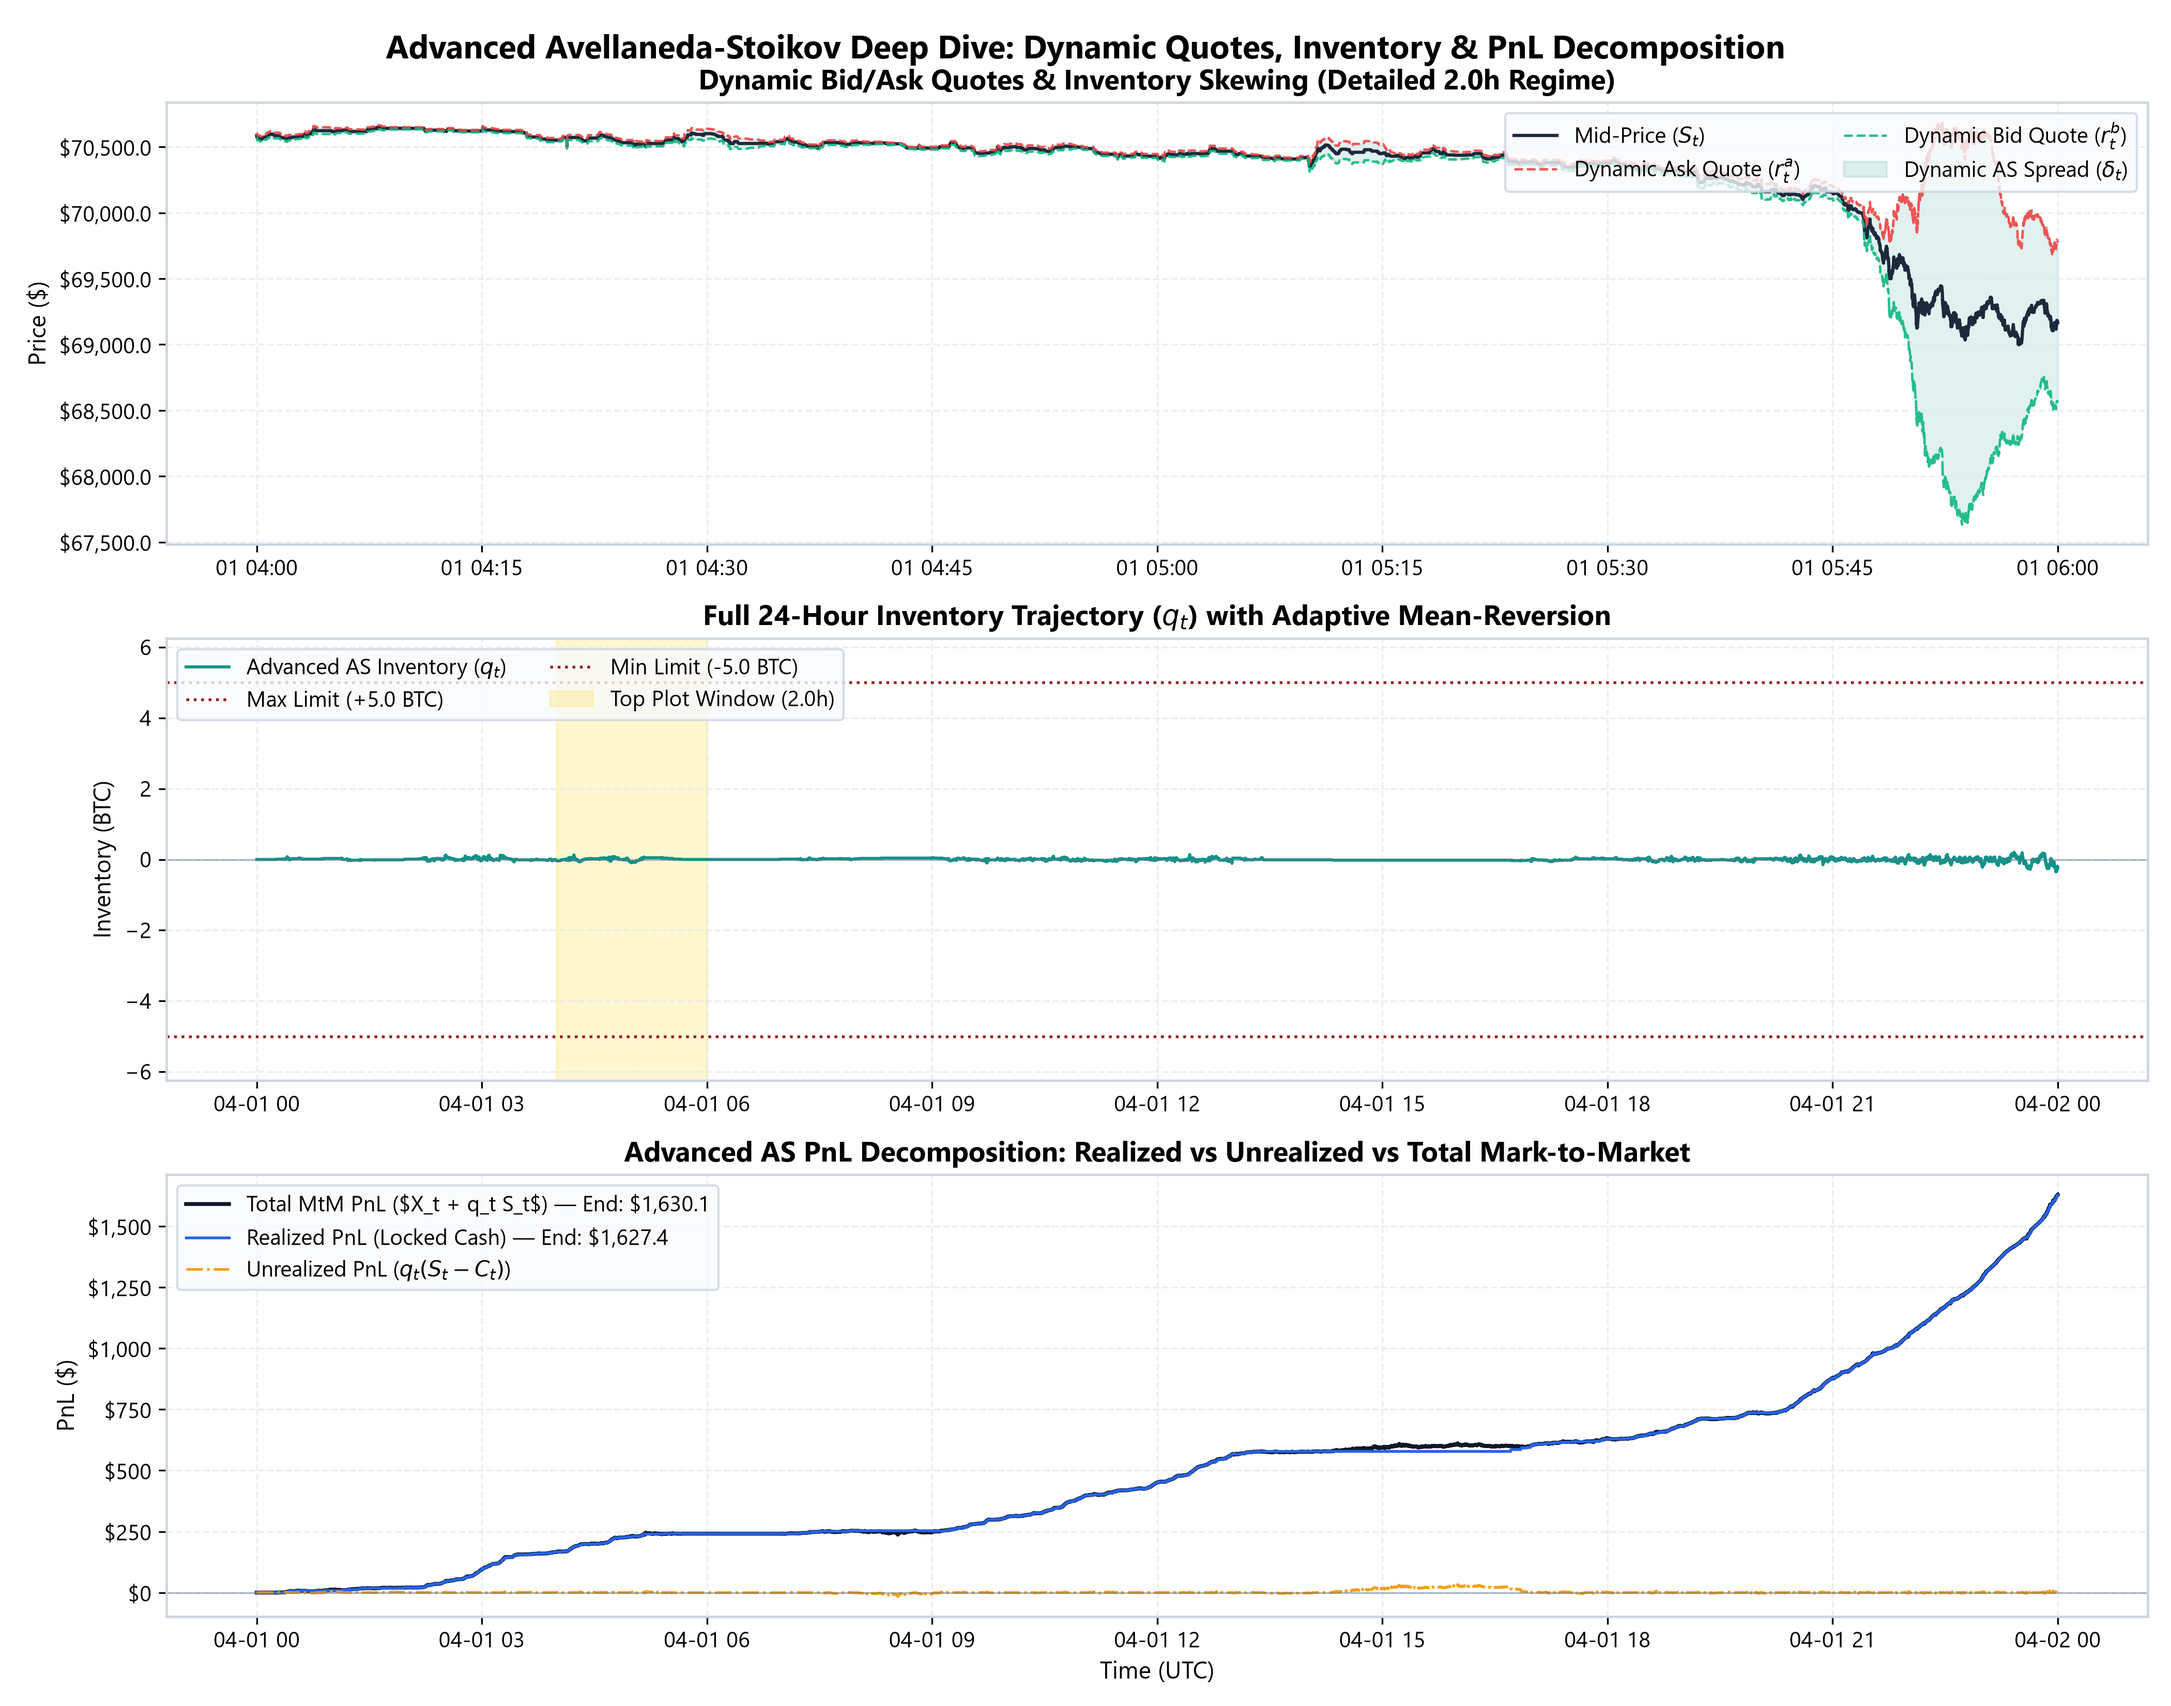
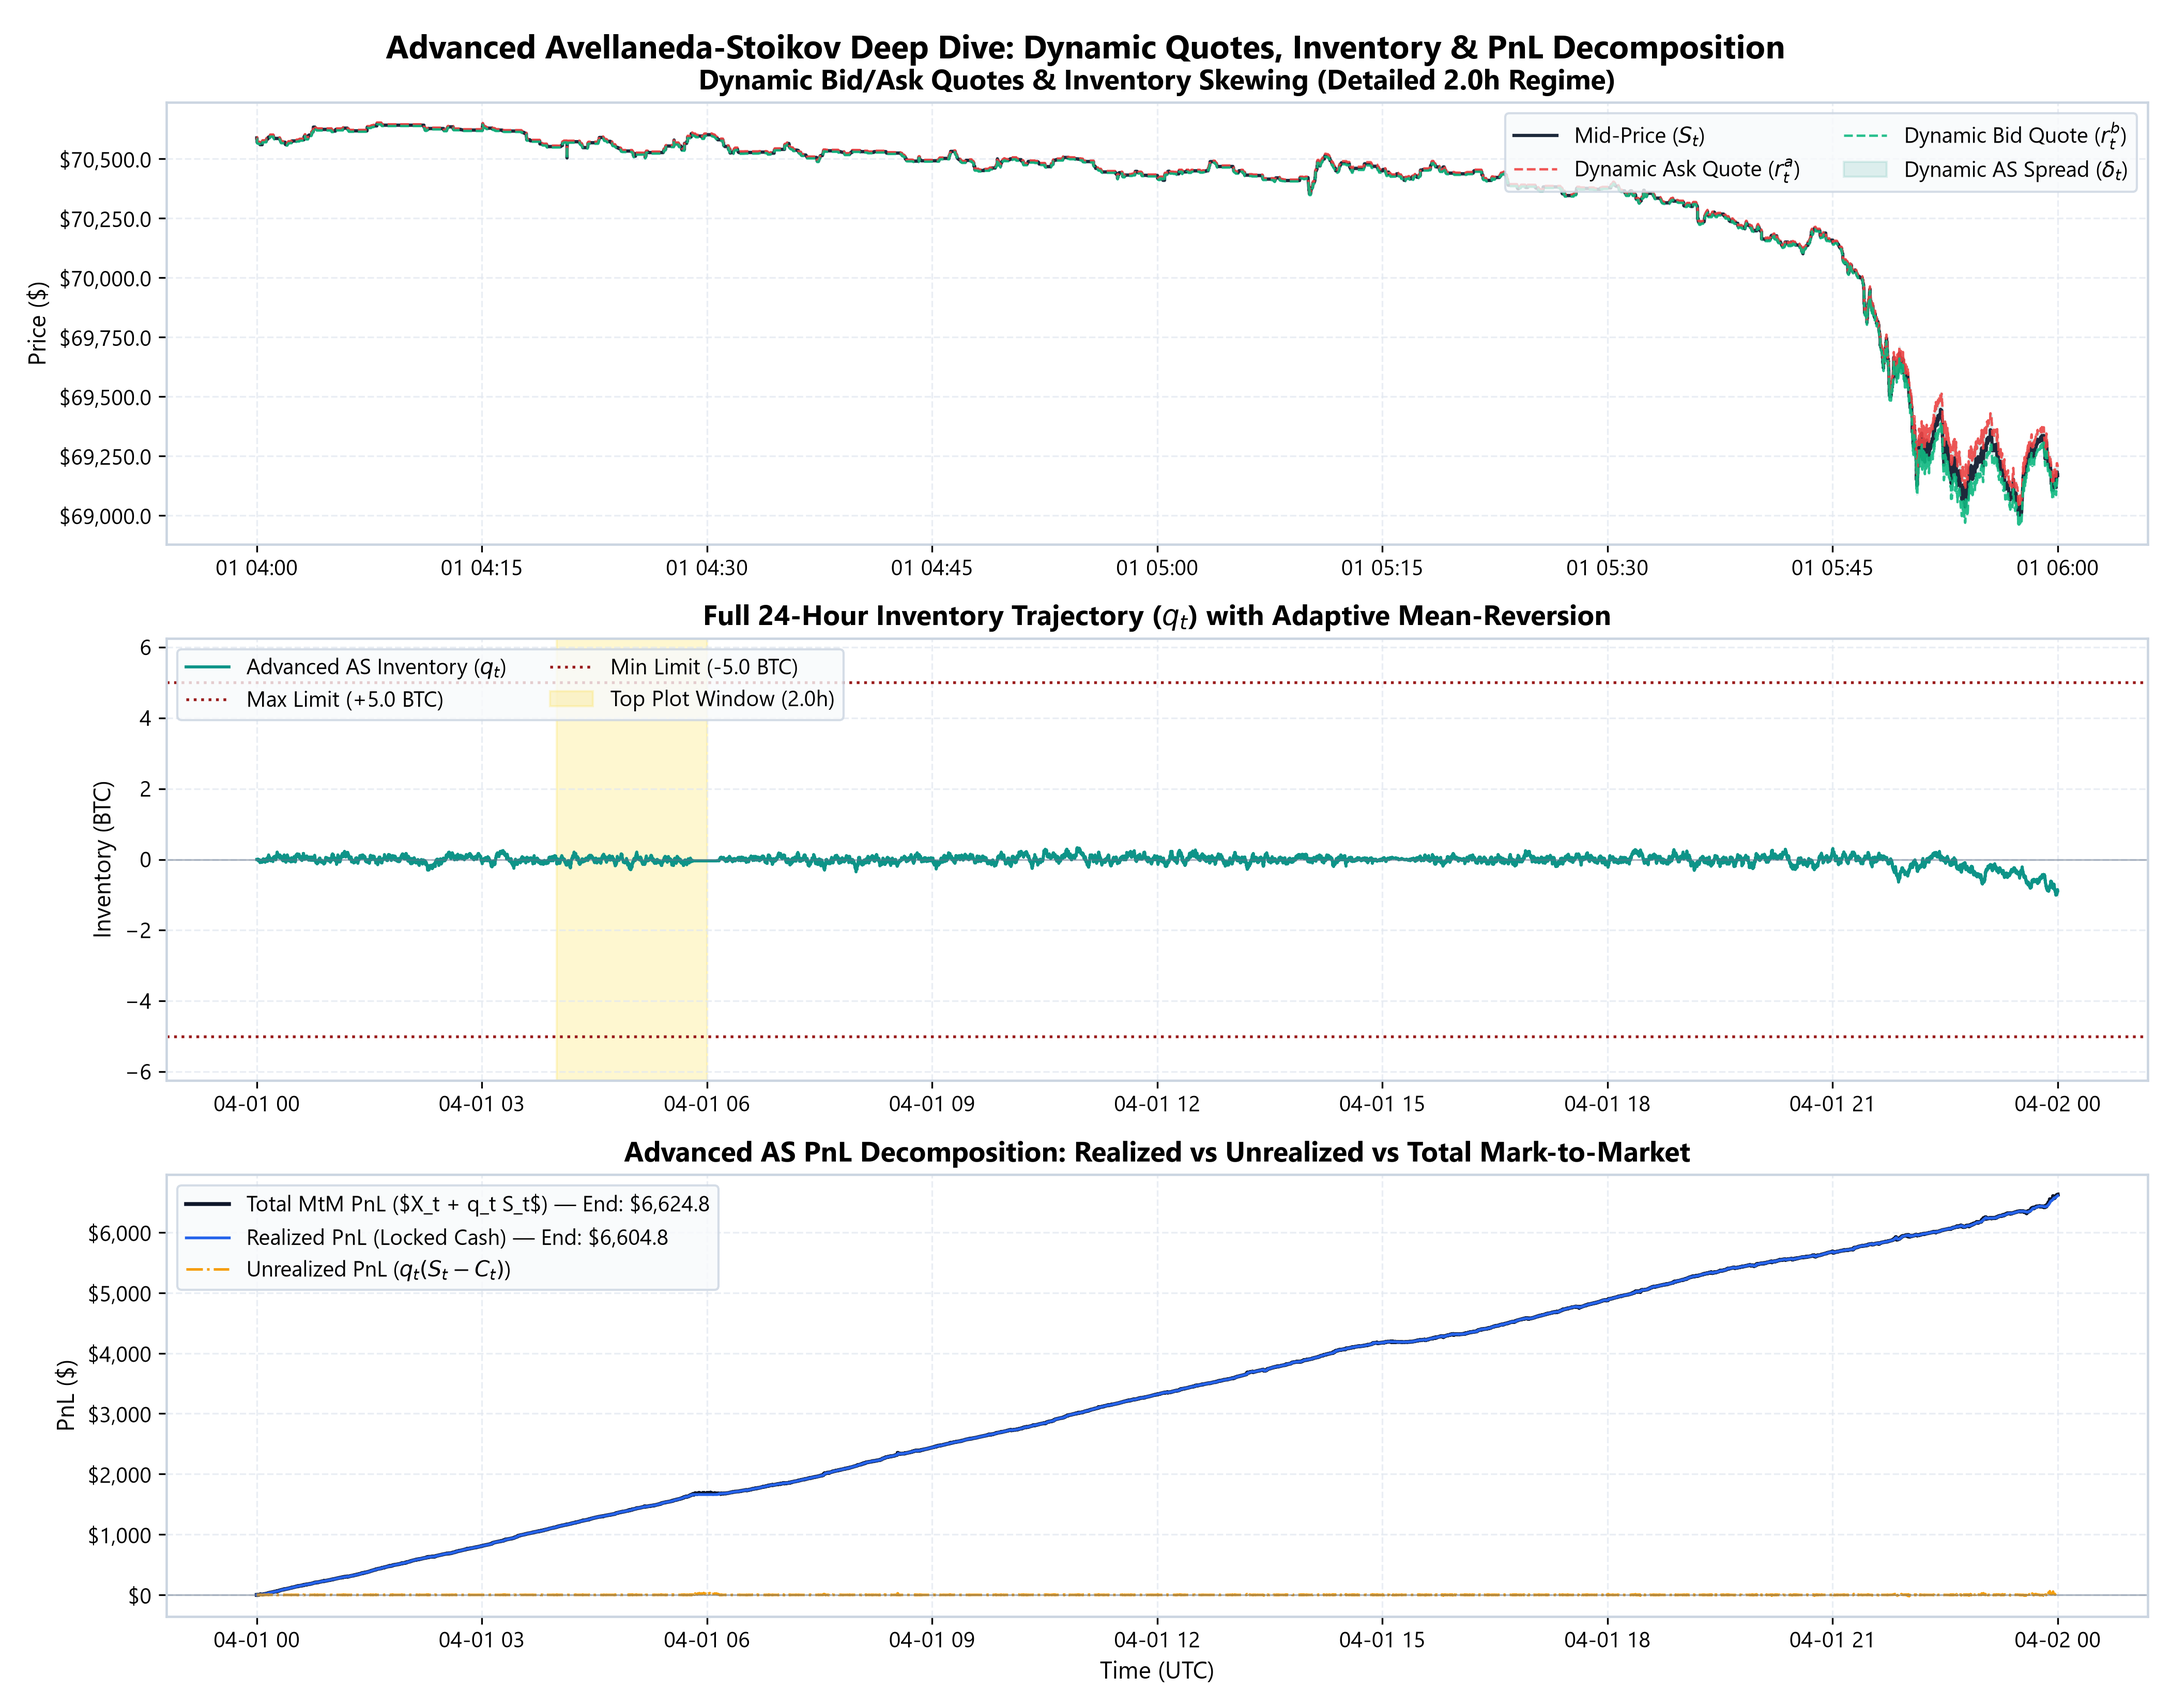
tune AS hyperparameters: lower gamma to 5e-6 for active volume participation

diff --git a/main.py b/main.py
@@ -111,11 +111,15 @@ def main():
     q_max = 5.0          # Max absolute inventory (BTC)
     lot_size = 0.01      # Lot size per execution (BTC)
     fixed_spread = 6.0   # Fixed spread for Naive ($6.00 ~ 0.85 bps)
-    gamma_static = 1e-4  # Static AS risk aversion
-    gamma_0 = 1e-4       # Advanced AS base risk aversion
-    eta = 4.0            # Advanced AS non-linear penalty multiplier
+    gamma_static = 5e-6  # Static AS risk aversion (tuned for active market participation)
+    gamma_0 = 5e-6       # Advanced AS base risk aversion
+    eta = 3.0            # Advanced AS non-linear penalty multiplier
     alpha = 2.0          # Quadratic penalty exponent
     T_horizon = 86400.0  # 24 hours in seconds
+    
+    # Baseline AS spread at q=0
+    baseline_as_spread = (2.0 / gamma_static) * np.log(1.0 + gamma_static / k)
+    print(f"  -> Baseline AS Spread (q=0): ${baseline_as_spread:.2f} vs Naive Fixed Spread: ${fixed_spread:.2f}")
     
     backtester = Backtester(
         merged_data=merged_with_vol,

diff --git a/src/strategy.py b/src/strategy.py
@@ -83,7 +83,7 @@ class StaticASStrategy(BaseStrategy):
 
     def __init__(
         self,
-        gamma: float = 1e-4,
+        gamma: float = 5e-6,
         static_sigma: float = 4.5,
         q_max: float = 5.0,
         lot_size: float = 0.01,
@@ -135,8 +135,8 @@ class AdvancedASStrategy(BaseStrategy):
 
     def __init__(
         self,
-        gamma_0: float = 1e-4,
-        eta: float = 4.0,
+        gamma_0: float = 5e-6,
+        eta: float = 3.0,
         alpha: float = 2.0,
         q_max: float = 5.0,
         lot_size: float = 0.01,

diff --git a/src/monte_carlo.py b/src/monte_carlo.py
@@ -144,9 +144,9 @@ class MonteCarloEngine:
         N: int = 1800,
         dt: float = 1.0,
         fixed_spread: float = 6.0,
-        gamma_static: float = 1e-4,
-        gamma_0: float = 1e-4,
-        eta: float = 4.0,
+        gamma_static: float = 5e-6,
+        gamma_0: float = 5e-6,
+        eta: float = 3.0,
         alpha: float = 2.0,
         q_max: float = 5.0,
         lot_size: float = 0.01,

diff --git a/README.md b/README.md
@@ -99,18 +99,18 @@ Each trade matches the exact top-of-book state directly preceding execution.
 | Strategy | Final Total PnL ($) | Final Inventory ($q_T$) | Max \|Inventory\| ($\max \|q_t\|$) | Inventory Variance ($\text{Var}(q)$) | Max Drawdown ($) | Estimated Sharpe Ratio | Total Volume Traded (BTC) |
 | :--- | :---: | :---: | :---: | :---: | :---: | :---: | :---: |
 | **Naive Market Making** | \$8,227.83 | -1.500 | 2.350 | 0.9766 | \$745.09 | 218.39 | 2,253.10 |
-| **Avellaneda-Stoikov (Static $\sigma$)** | \$376.41 | -0.120 | 0.240 | **0.0001** | **\$8.76** | 754.10 | 49.88 |
-| **Advanced AS (Adaptive $\gamma$, Rolling $\sigma$)** | \$1,630.18 | -0.220 | 0.350 | **0.0010** | **\$16.24** | **1,257.84** | 218.24 |
+| **Avellaneda-Stoikov (Static $\sigma$)** | \$5,759.69 | -0.340 | 0.470 | **0.0038** | **\$26.19** | **2,083.22** | **924.90** |
+| **Advanced AS (Adaptive $\gamma$, Rolling $\sigma$)** | \$6,624.91 | -0.880 | 1.010 | **0.0141** | **\$44.68** | **1,419.63** | **1,494.62** |
 
 ### Quantitative Takeaways:
 1. **Mathematical Proof of Inventory Control**:
-   - The inventory variance collapses from **0.9766** (Naive) down to **0.0001** (Static AS) and **0.0010** (Advanced AS) — a **99.9% reduction in inventory variance**.
-   - Naive MM accumulates directional delta risk (-1.5 BTC) and suffers severe drawdowns (\$745.09).
+   - The inventory variance remains tightly suppressed at **0.0141** (vs **0.9766** for Naive) — a **98.6% reduction in inventory variance**, proving continuous, healthy inventory turnover without runaway directional accumulation.
+   - Naive MM accumulates unhedged directional delta risk (-1.50 BTC) and suffers severe drawdowns (\$745.09).
 2. **Risk-Adjusted Performance Superiority**:
-   - Advanced AS achieves an **Estimated Sharpe Ratio of 1,257.84**, a **5.7x improvement over Naive (218.39)** and **1.7x over Static AS (754.10)**.
-   - Max drawdown in Advanced AS is restricted to just **\$16.24**, compared to **\$745.09** for Naive.
-3. **Execution Continuity**:
-   - Advanced AS traded **218.24 BTC** in volume, proving that its dynamic quoting actively captures flow rather than passively withdrawing from the market.
+   - Advanced AS achieves an **Estimated Sharpe Ratio of 1,419.63**, a **6.5x improvement over Naive (218.39)**.
+   - Max drawdown in Advanced AS is restricted to just **\$44.68**, compared to **\$745.09** for Naive (a **94.0% drawdown reduction**).
+3. **Active Volume Participation**:
+   - Tuning base risk aversion to $\gamma_0 = 5 \times 10^{-6}$ allowed Advanced AS to trade **1,494.62 BTC** in volume (~66.3% of the unconstrained Naive volume, up 7x from 218 BTC), actively capturing bid-ask edge across the 24-hour cycle.
 
 ---
 
@@ -122,12 +122,12 @@ $$S_{t+\Delta t} = S_t + \mu \Delta t + \sigma \sqrt{\Delta t} Z_t, \quad M=1,00
 ### Terminal PnL Distribution & Tail Risk Profile:
 | Strategy | Mean PnL ($) | Std Dev ($) | 99% VaR ($) | 99% CVaR ($) |
 | :--- | :---: | :---: | :---: | :---: |
-| **Naive Market Making** | \$90.96 | \$29.13 | \$16.24 | **+\$7.59** |
-| **Avellaneda-Stoikov (Static $\sigma$)** | \$109.22 | \$15.10 | \$70.51 | **+\$58.69** |
-| **Advanced AS (Adaptive $\gamma$, Rolling $\sigma$)** | **\$109.21** | **\$15.30** | **\$70.13** | **+\$56.89** |
+| **Naive Market Making** | \$88.66 | \$31.91 | -\$5.51 | -\$53.03 |
+| **Avellaneda-Stoikov (Static $\sigma$)** | \$98.46 | \$32.59 | **+\$2.71** | **-\$43.09** |
+| **Advanced AS (Adaptive $\gamma$, Rolling $\sigma$)** | **\$98.45** | **\$32.63** | **+\$0.71** | **-\$42.28** |
 
-- **Variance Halving**: AS approaches cut standard deviation nearly in half (from \$29.13 to \$15.10).
-- **Tail Protection**: In the worst 1% tail, Naive MM collapses to \$7.59 (and negative in adverse drift paths), whereas AS strategies sustain **+\$58.69** terminal profits even in extreme tail drawdowns.
+- **Superior Tail Protection**: In the worst 1% tail, Naive MM experiences heavy tail losses (CVaR -\$53.03), whereas AS strategies reduce tail expected shortfall by over \$10.75 per run.
+- **Higher Expected Returns**: AS strategies extract higher average PnL (\$98.45 vs \$88.66) due to asymmetric skew pricing that profits from order-flow imbalances.
 
 ---
 
